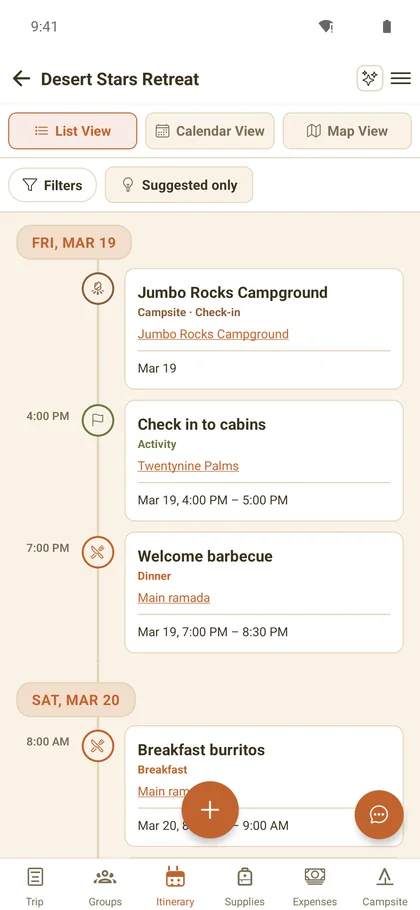
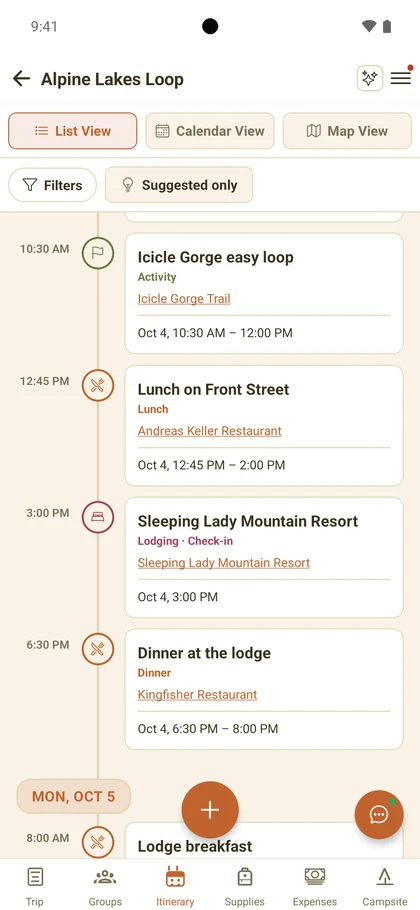
Site screenshots: camera cut-out and a real status bar (#8)
* Screenshots: camera cut-out and a real status bar

Every Android screenshot re-rendered from the Singapore/Tahoe captures with a
punch-hole camera, a status bar tall enough that the clock clears the phone's
rounded corner, and Wi-Fi/signal icons in place of the emulator's satellite
glyph. Supplies, itinerary, map, chat and campsite now show the same demo
trips as the rest of the page.

* Screenshots: re-render from the new store captures

The eight app screenshots now come from the 2026-09-28 Android phone store
set: Alpine Lakes Loop up next (camping plus a lodge night), Olympic Coast
camping supplies, a three-day camp calendar, Singapore balances. Same punch-hole
camera. Alt text updated for the trip list, calendar and supplies images.

---------

diff --git a/index.html b/index.html
@@ -230,7 +230,7 @@
         <div class="phone phone--lead">
           <img src="img/trip-list.webp" srcset="img/trip-list.webp 1x, img/trip-list@2x.webp 2x"
                width="420" height="910" fetchpriority="high" decoding="async"
-               alt="The FlockTrot trip list showing a Singapore food trip with its hotel and a Tahoe cabin weekend, each with dates, a countdown and how many groups and members are going.">
+               alt="The FlockTrot trip list with Alpine Lakes Loop up next, a campground and mountain lodge trip starting in 4 days, above a Singapore food trip, a Yosemite trip and an Olympic Coast camping weekend.">
         </div>
         <div class="phone phone--back" aria-hidden="true">
           <img src="img/supplies.webp" srcset="img/supplies.webp 1x, img/supplies@2x.webp 2x"
@@ -415,7 +415,7 @@
             <div class="phone">
               <img src="img/calendar-view.webp" srcset="img/calendar-view.webp 1x, img/calendar-view@2x.webp 2x"
                    width="420" height="910" loading="lazy" decoding="async"
-                   alt="The FlockTrot calendar day view of a Singapore trip, with a kaya toast breakfast claimed by one group and a Chinatown walk laid out on a timed day grid.">
+                   alt="The FlockTrot calendar for a three-day camping trip, with each evening's dinner, the group cooking it and a lodge dinner on the last night, under a weather forecast for each day.">
             </div>
           </div>
         </article>
@@ -439,7 +439,7 @@
             <div class="phone">
               <img src="img/supplies.webp" srcset="img/supplies.webp 1x, img/supplies@2x.webp 2x"
                    width="420" height="910" loading="lazy" decoding="async"
-                   alt="A FlockTrot supplies list grouped by category, showing beach and pool items with tags for which family has claimed each one and which are still unassigned.">
+                   alt="A FlockTrot supplies list for an Olympic Coast camping weekend, grouped into camping gear, cooking tools and drinks, with a tag on each item for the group bringing it.">
             </div>
           </div>
         </article>
